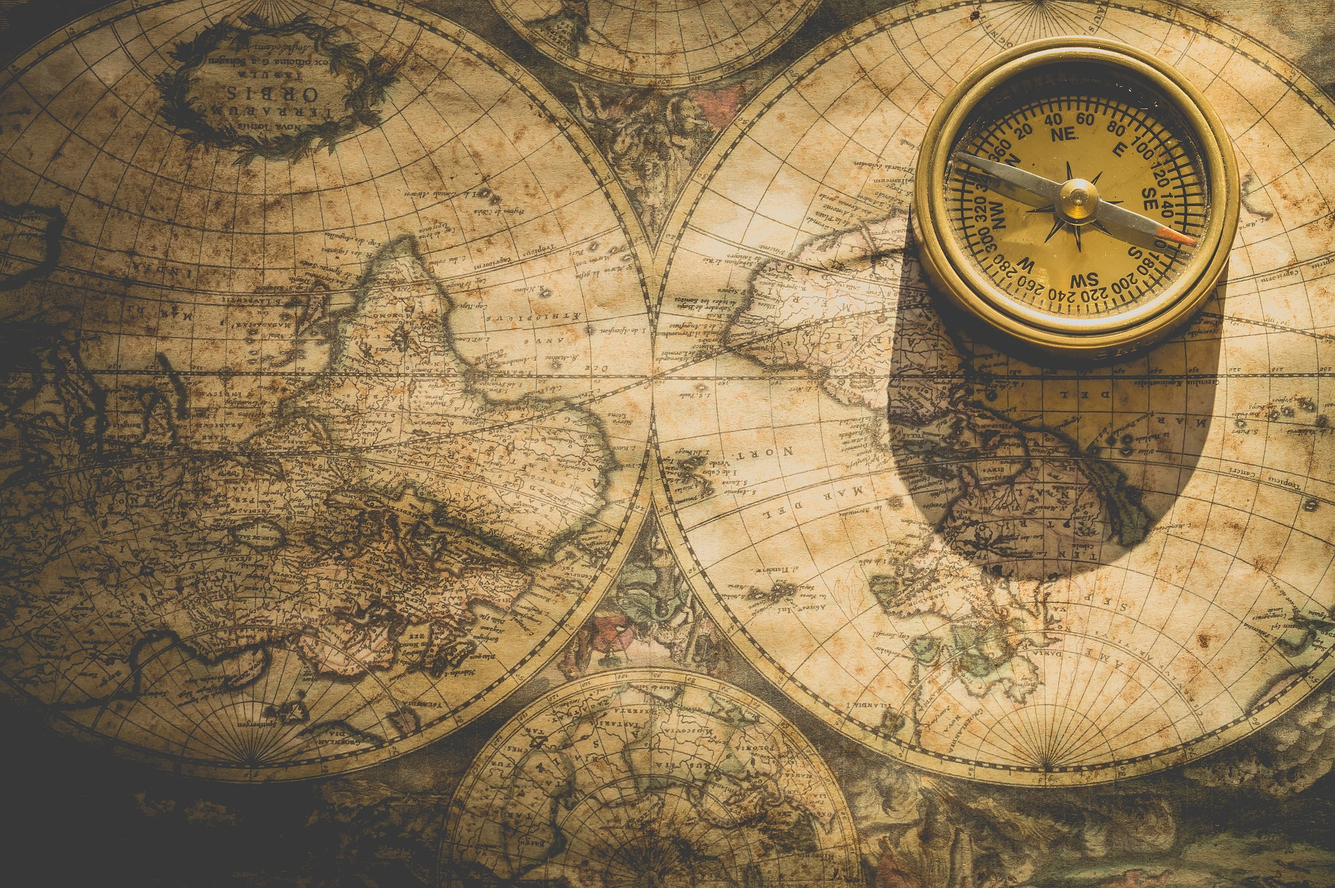
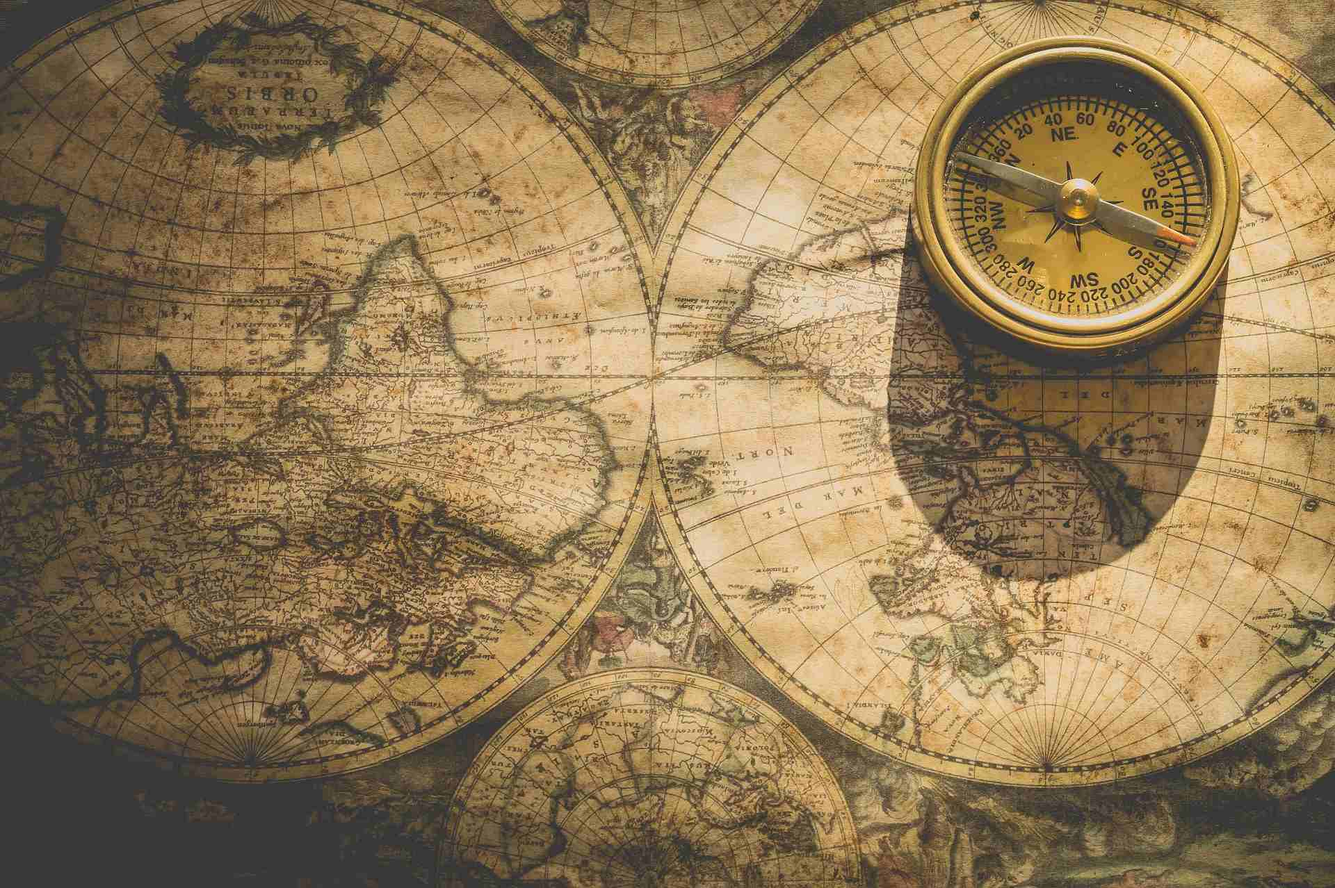
chore(images): shrink public images size

diff --git a/public/assets/css/main.css b/public/assets/css/main.css
@@ -316,7 +316,7 @@ input, select, textarea {
 	}
 
 		a:hover {
-			color: #6F2D01;
+			color: #CF8C4A;
 		}
 
 	strong, b {
